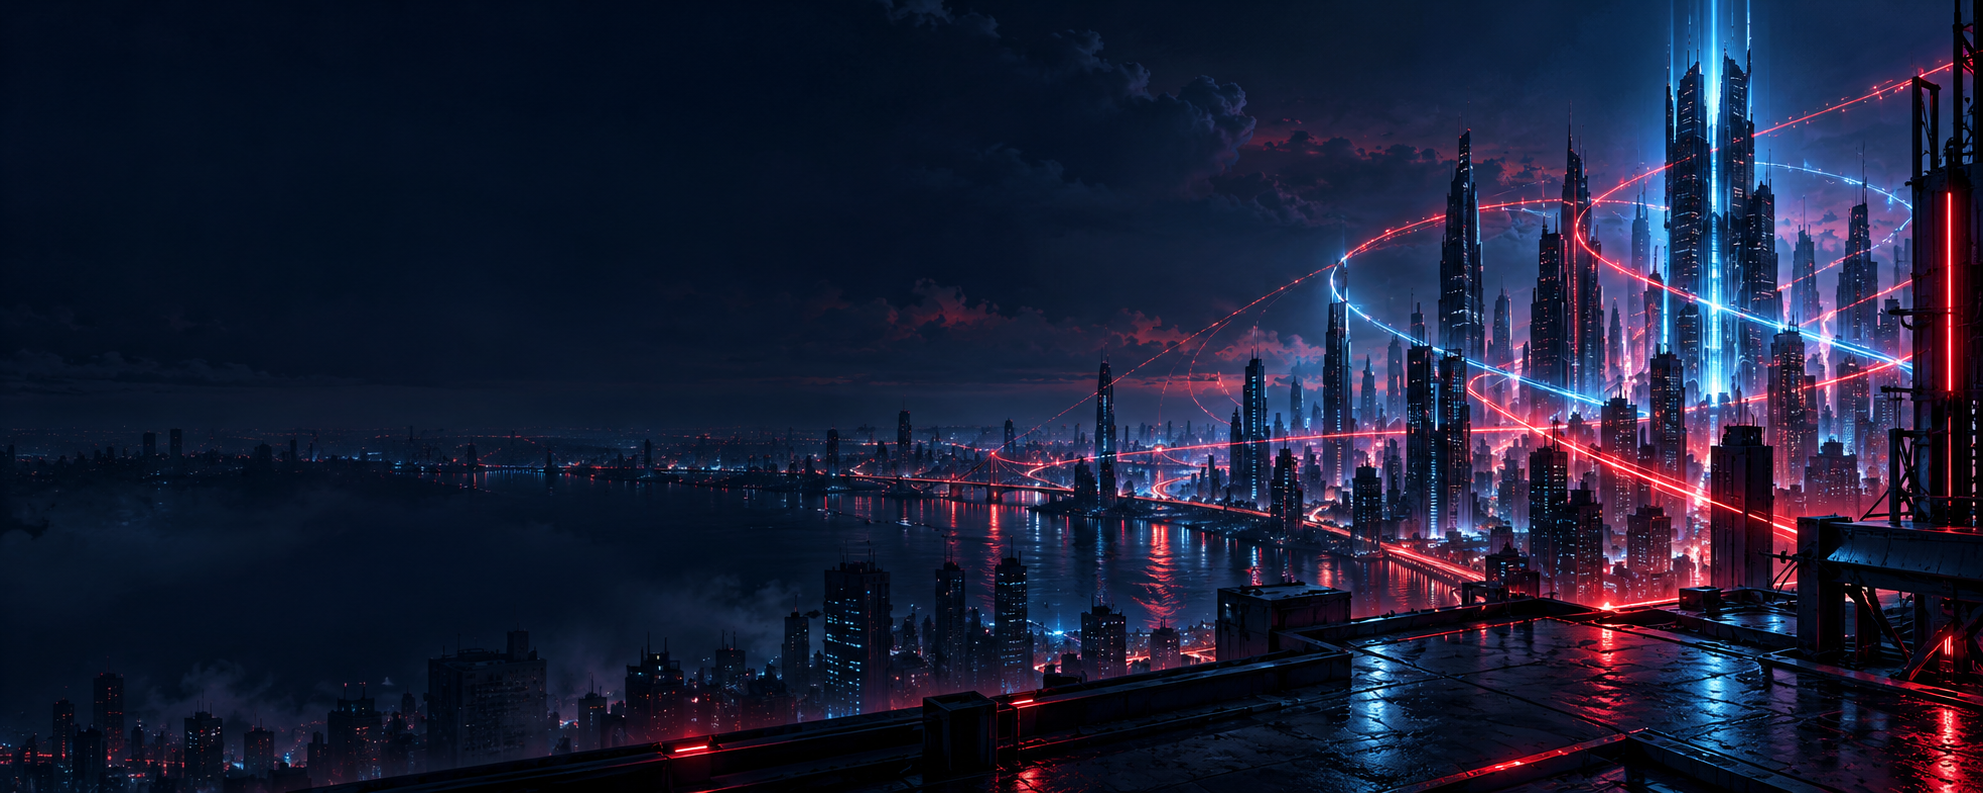
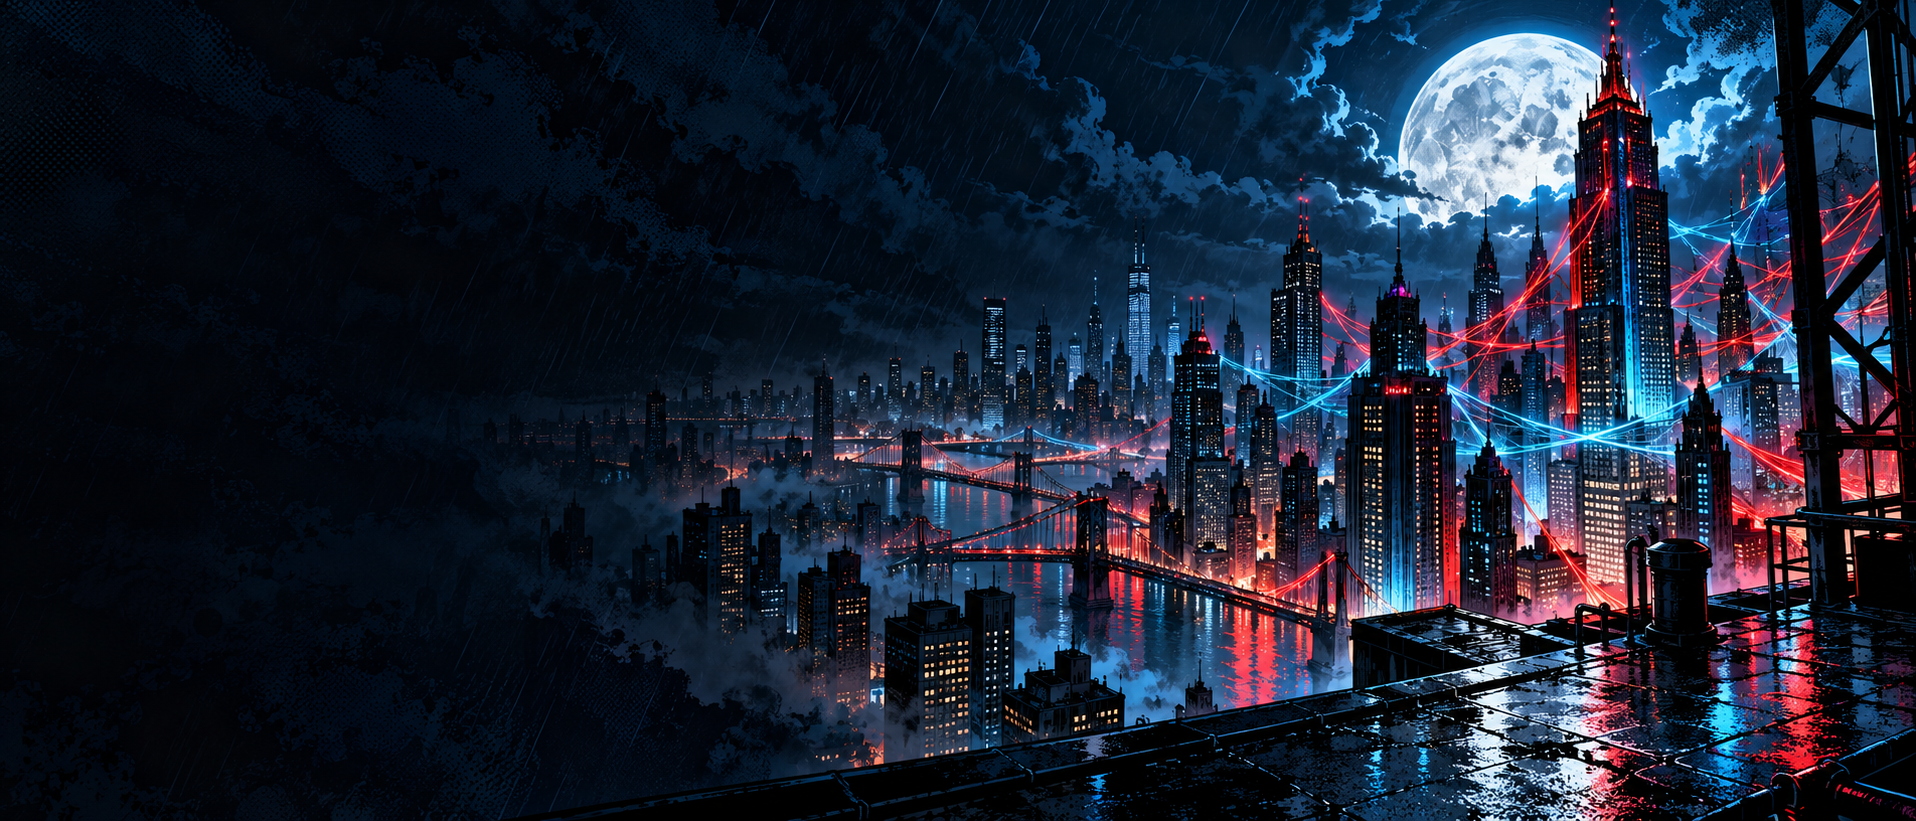
fix: guarantee comic theme visibility and Accepted trigger

diff --git a/extension/content.css b/extension/content.css
@@ -10,7 +10,7 @@
 html.cc-enabled.cc-problem-page body { background: #030711 !important; }
 #cc-backdrop {
   position: fixed;
-  z-index: 0;
+  z-index: 2147483000;
   inset: 0;
   display: none;
   overflow: hidden;
@@ -20,12 +20,16 @@ html.cc-enabled.cc-problem-page body { background: #030711 !important; }
   background-size: cover;
   filter: blur(var(--cc-blur));
   transform: scale(1.04);
+  opacity: calc(.62 - var(--cc-overlay) * .45);
+  mix-blend-mode: screen;
 }
 #cc-backdrop::after {
   content: "";
   position: absolute;
   inset: 0;
-  background: linear-gradient(90deg, rgba(2, 5, 14, calc(var(--cc-overlay) + .18)), rgba(3, 7, 17, var(--cc-overlay)) 58%, rgba(1, 4, 12, calc(var(--cc-overlay) - .1)));
+  opacity: .18;
+  background-image: radial-gradient(#29b6ff 0.7px, transparent 0.8px);
+  background-size: 5px 5px;
 }
 html.cc-enabled.cc-problem-page #cc-backdrop { display: block; }
 html.cc-enabled.cc-problem-page body > div:not(#cc-backdrop) { position: relative; z-index: 1; background-color: transparent !important; }
@@ -39,7 +43,8 @@ html.cc-enabled.cc-problem-page .flexlayout__tab,
 html.cc-enabled.cc-problem-page #qd-content { background-color: transparent !important; }
 html.cc-enabled.cc-problem-page [class*="rounded"],
 html.cc-enabled.cc-problem-page [class*="editor-container"] {
-  border-color: var(--cc-border) !important;
+  border-color: color-mix(in srgb, var(--cc-accent-2) 48%, transparent) !important;
+  box-shadow: inset 0 0 0 1px rgba(41, 182, 255, .12), 0 0 26px rgba(0, 101, 180, .08);
 }
 html.cc-enabled.cc-problem-page nav,
 html.cc-enabled.cc-problem-page header,
@@ -54,6 +59,7 @@ html.cc-enabled.cc-problem-page .monaco-editor,
 html.cc-enabled.cc-problem-page .monaco-editor-background,
 html.cc-enabled.cc-problem-page .monaco-editor .margin { background-color: rgba(5, 9, 18, .72) !important; }
 html.cc-enabled.cc-problem-page [class*="split-view-view"] { background-color: transparent !important; }
+html.cc-enabled.cc-problem-page [role="tab"] { border-color: rgba(41, 182, 255, .22) !important; }
 html.cc-enabled.cc-problem-page button[class*="bg-green"],
 html.cc-enabled.cc-problem-page [data-e2e-locator="console-submit-button"] { box-shadow: 0 0 22px color-mix(in srgb, var(--cc-accent-2) 55%, transparent); }
 

diff --git a/website/index.html b/website/index.html
@@ -83,7 +83,7 @@
       </section>
 
       <section id="install" class="install-section">
-        <div class="install-copy"><span class="release-pill"><i></i> SIGNATURE RELEASE · V1.1.0</span><h2>Your next Accepted will feel different.</h2><p>Download CodeCarnival, load it once in Chrome, and Neon Web will be ready whenever you open a LeetCode problem.</p><div class="install-actions"><a class="button primary" href="https://github.com/vikashkumar302004/CodeCarnival/releases/latest/download/codecarnival-extension.zip">Download for Chrome <span>↓</span></a><a class="button ghost" href="https://github.com/vikashkumar302004/CodeCarnival" target="_blank" rel="noreferrer">View source ↗</a></div><small>Manifest V3 · No account · Settings stay in your browser</small></div>
+        <div class="install-copy"><span class="release-pill"><i></i> SIGNATURE RELEASE · V1.1.1</span><h2>Your next Accepted will feel different.</h2><p>Download CodeCarnival, load it once in Chrome, and Neon Web will be ready whenever you open a LeetCode problem.</p><div class="install-actions"><a class="button primary" href="https://github.com/vikashkumar302004/CodeCarnival/releases/latest/download/codecarnival-extension.zip">Download for Chrome <span>↓</span></a><a class="button ghost" href="https://github.com/vikashkumar302004/CodeCarnival" target="_blank" rel="noreferrer">View source ↗</a></div><small>Manifest V3 · No account · Settings stay in your browser</small></div>
         <div class="install-guide">
           <div class="guide-head"><span>QUICK INSTALL</span><b>About 60 seconds</b></div>
           <ol>

diff --git a/extension/content.js b/extension/content.js
@@ -19,7 +19,9 @@ const RESULT_SELECTORS = [
   '[class*="submission-result"]',
   '[class*="result-state"]',
   '[role="dialog"] [role="status"]',
-  '[role="dialog"] [class*="success"]'
+  '[role="dialog"] [class*="success"]',
+  '[role="tab"]',
+  'button'
 ];
 
 function isProblemPage() {
@@ -153,7 +155,10 @@ function normalizedResultText(node) {
 function findAcceptedResult() {
   for (const selector of RESULT_SELECTORS) {
     for (const node of document.querySelectorAll(selector)) {
-      if (isVisible(node) && /(^|\s)Accepted(?:!|\s|$)/i.test(normalizedResultText(node))) return node;
+      const text = normalizedResultText(node);
+      const exactTabResult = (selector === '[role="tab"]' || selector === 'button') && /^Accepted!?$/i.test(text);
+      const resultPanelMatch = selector !== '[role="tab"]' && selector !== 'button' && /(^|\s)Accepted(?:!|\s|$)/i.test(text);
+      if (isVisible(node) && (exactTabResult || resultPanelMatch)) return node;
     }
   }
   return null;

diff --git a/CHANGELOG.md b/CHANGELOG.md
@@ -2,6 +2,14 @@
 
 All notable changes to CodeCarnival are documented here.
 
+## 1.1.1 — 2026-10-10
+
+### Fixed
+
+- Guaranteed comic artwork visibility above opaque LeetCode workspace layers using a pointer-safe blend layer
+- Added current LeetCode Accepted tab detection so successful solutions trigger the celebration
+- Replaced the city artwork with a sharper hand-inked graphic-novel environment
+
 ## 1.1.0 — 2026-10-10
 
 ### Fixed

diff --git a/STORE_LISTING.md b/STORE_LISTING.md
@@ -10,7 +10,7 @@
 
 **Language:** English
 
-**Version:** 1.1.0
+**Version:** 1.1.1
 
 ## Detailed description
 
